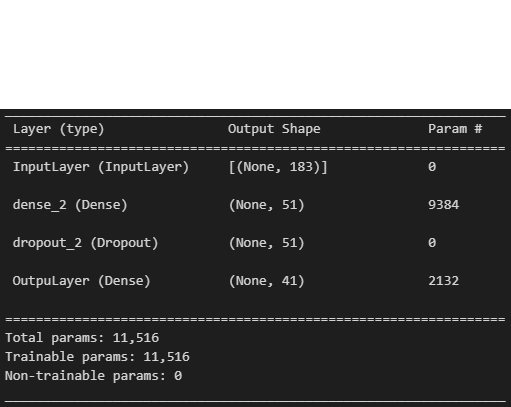
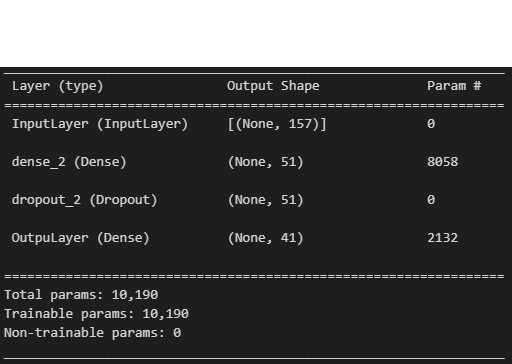
update

diff --git a/README.md b/README.md
@@ -146,6 +146,8 @@ As can be seen, the NN's architectures seem to be same with an exception of the 
   <img src="./models/en/en_NN_plot.jpg" style="margin-right: 10px;" width="27%">
 </div>
 
+We can also see that Czech Neural Network has 11,516 parameters (including weights and biases) whereas English model has less parameters (10,190) which is due to the lower number of input layer units and already mentioned above.
+
 <div style="display: flex;" align="center">
   <img src="./imgs_readme/cs_NN_summary.png" style="margin-right: 5px;" width="45%">
   <img src="./imgs_readme/en_NN_summary.png" style="margin-right: 5px;" width="45%">
